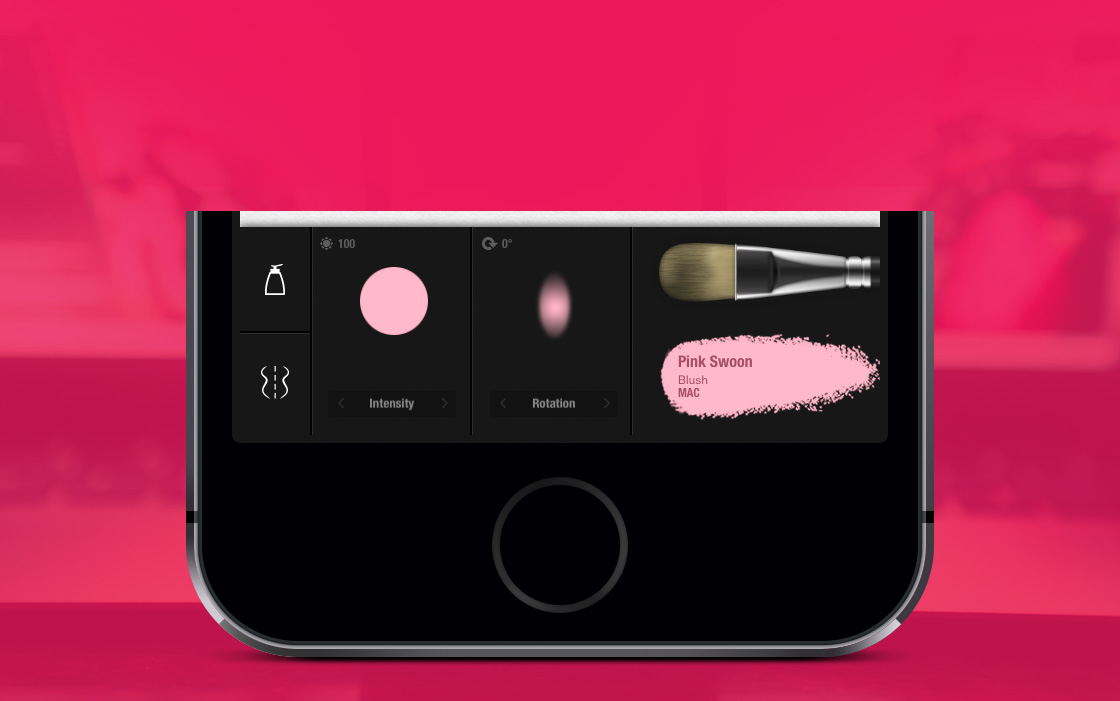
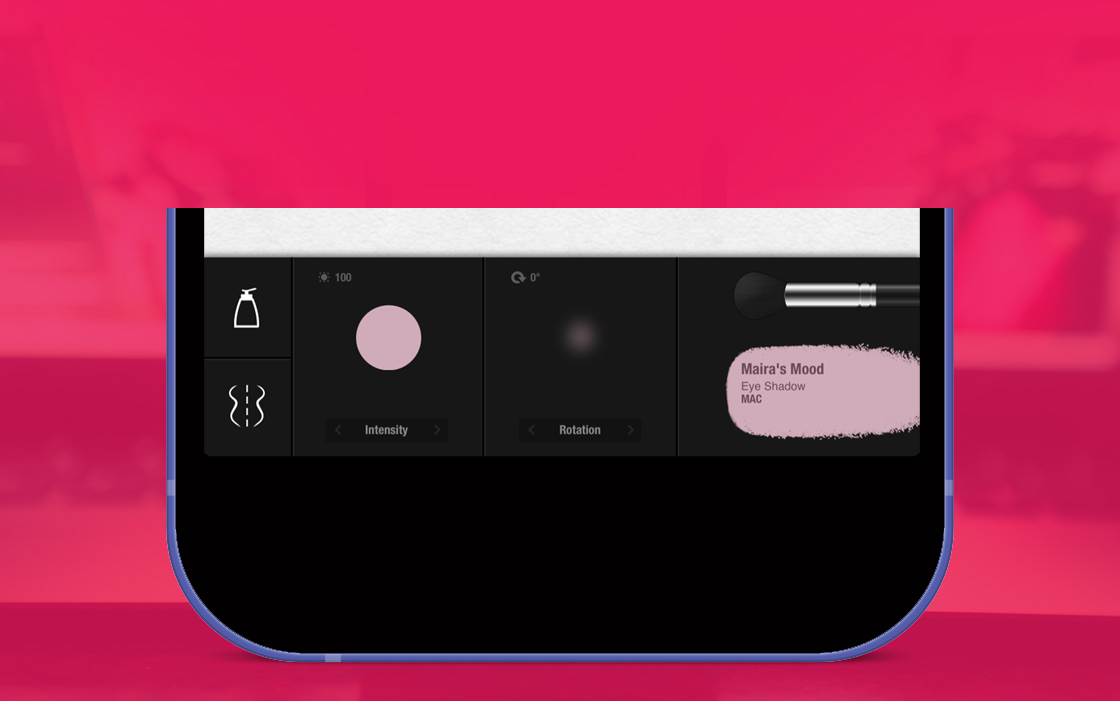
Update images and remove android btn

diff --git a/index.html b/index.html
@@ -32,15 +32,11 @@
 of applying makeup. <br /><br />
 
       <a href="https://itunes.apple.com/us/app/glamzy-2/id776876015?ls=1&mt=8" title="Download" class="downloadLinkApple"><div ><img src="img/appledownload.png" alt="Apple Download" /></div></a>
-      
-      <a href="https://play.google.com/store/apps/details?id=com.twostatesaway.glamzy2&hl=en" title="Download" class="downloadLinkAndroid"><div ><img src="img/androiddownload.png" alt="Android Download" /></div></a>
-      
+            
       <div class="footnoteType"></div>
 
-<!--<div class="shareBlock">
-  <a href="https://www.facebook.com/pages/Glamzy-Android-iPhone-and-iPad-makeup-app/169424149768545" title="Facebook" target="_blank"><img src="img/facebook_icon.png" alt="Facebook" /></a><a href="https://twitter.com/glamzyapp" title="Twitter" target="_blank"><img src="img/twitter_icon.png"  alt="Twitter" /></a><a href="http://www.pinterest.com/glamzyapp/" title="Pinterest" target="_blank"><img src="img/pinterest_icon.png"  alt="Pinterest" /> </a></div>     
---></div>
-      <div class="headerImage"><img src="img/header_2up_watch.png" alt="Header 2up" /> </div>
+    </div style="">
+      <div class="headerImage"><img src="img/header_2up_iphone_new.png" alt="Header 2up" /> </div>
     </div>
     
         <!-- Face Charts-->
@@ -61,10 +57,7 @@ casual looks or artistic masterpieces.</div>
         Glamzy 2 gives you access to more than 2,400<br />
         products designed to look like the real thing </div>
       <img src="img/brand_logos.png"  alt="Brand Logos" /><br /><br /><br /><br />
-            <img src="img/apple_watch_logo.png"  alt="Apple Watch Logo" />
-           <div class="productsType">Apple Watch Color Catalog allows you to <br />
-browse all makeup colors right from your wrist. </div>
- <img src="img/apple_watch.png"  alt="Apple Watch" />
+       
        </div>
     
     <!-- Brushes -->
